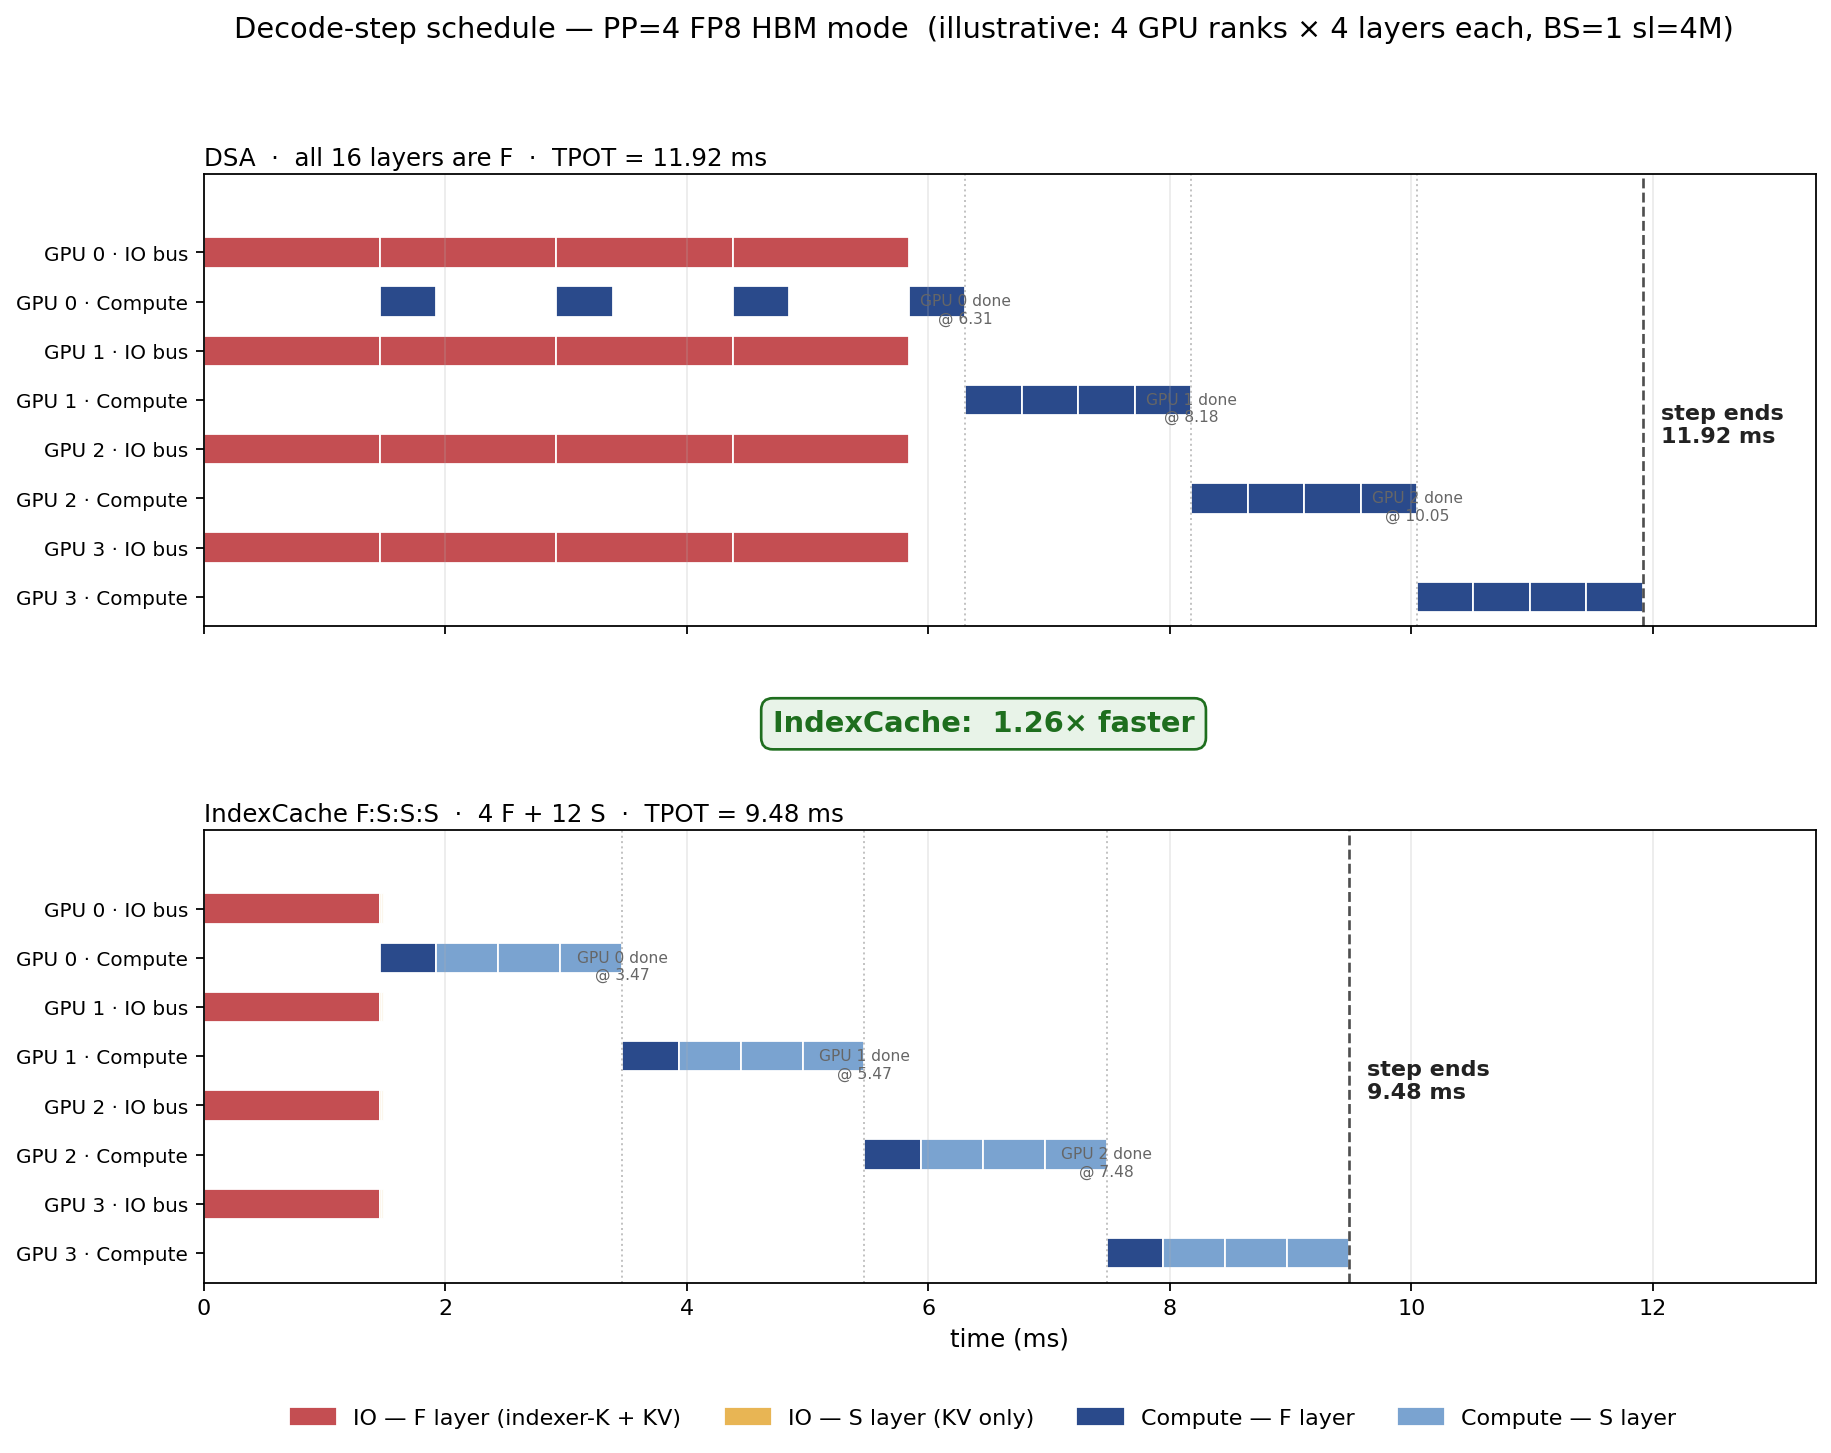
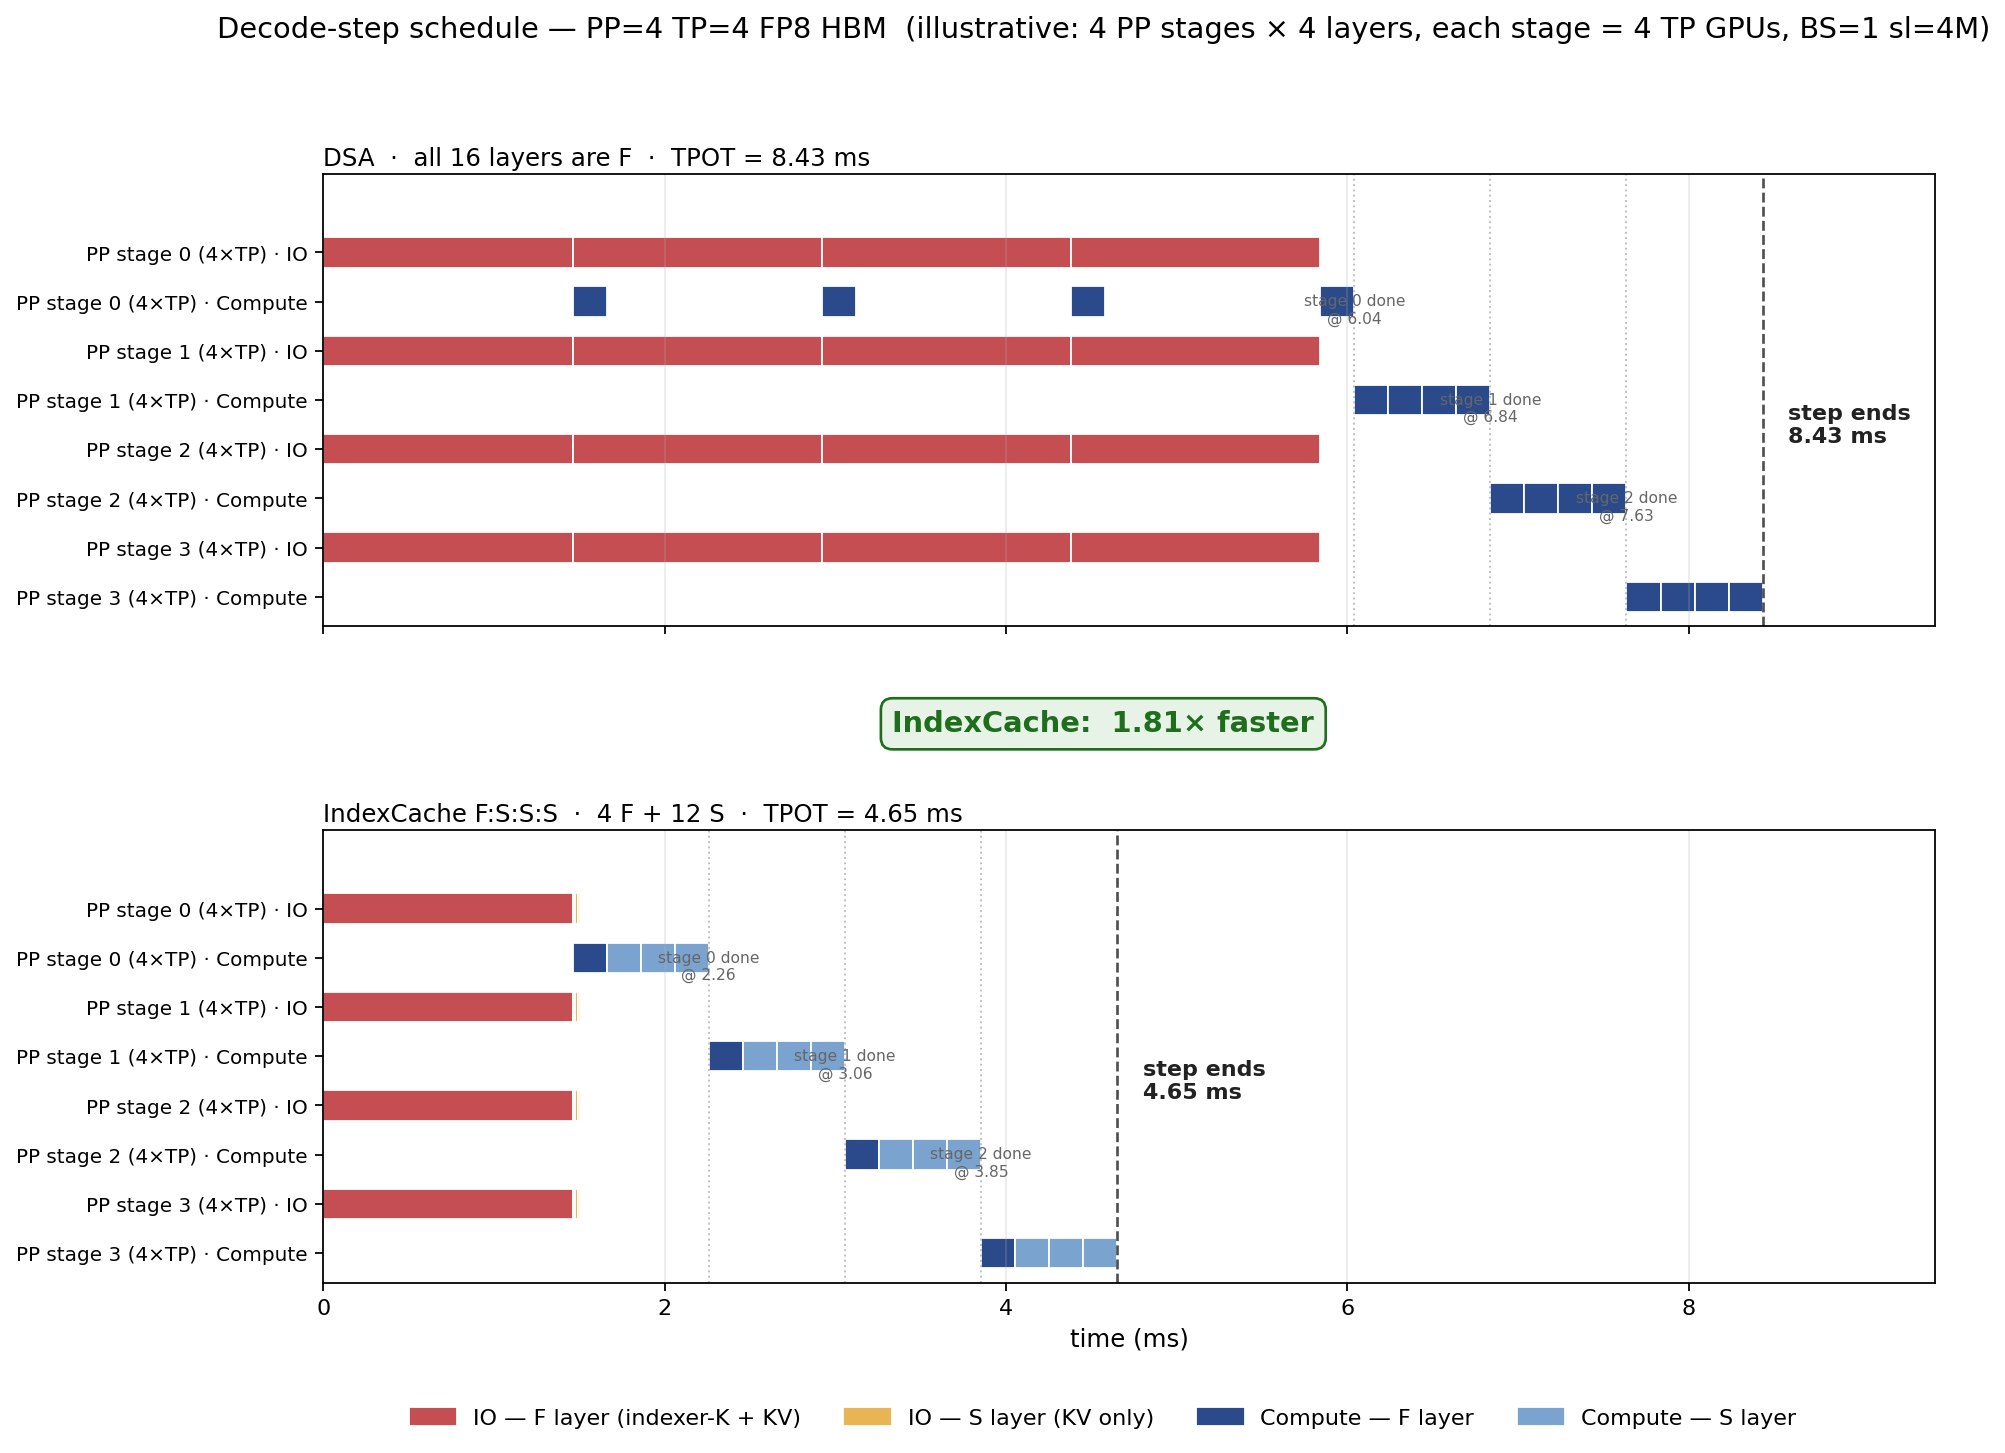
Fix Gantt figures: use TP-sharded compute, label PP stages correctly
Both pipeline timeline figures now use total_compute_ms(tp=TP) so
compute bars reflect the actual TP-parallel execution time. Lane
labels updated from "GPU i" to "PP stage i (N×TP)" to make clear
each lane represents a group of TP GPUs working in parallel on the
same layer, not a single GPU.

https://claude.ai/code/session_01Hc6HPkDRmKxauvdumkV5Yi

diff --git a/experiments/generate_slide_figures.py b/experiments/generate_slide_figures.py
@@ -203,20 +203,21 @@ def fig_pipeline_timeline():
     so the bars are visually informative). Cartoon PP=2 with 8 layers
     per stage so the F:S:S:S structure draws cleanly.
     """
+    TP = 2
     f = analytical_layer_F(4 * 1024 * 1024, 1, "hbm", ep=8, fp8=False)
     s = analytical_layer_S(4 * 1024 * 1024, 1, "hbm", ep=8, fp8=False)
     F_io  = f.total_io_ms()
     S_io  = s.total_io_ms()
-    F_cmp = f.total_compute_ms(tp=1)
-    S_cmp = s.total_compute_ms(tp=1)
+    F_cmp = f.total_compute_ms(tp=TP)
+    S_cmp = s.total_compute_ms(tp=TP)
 
     dsa_pattern = ["F"] * 8
     ic_pattern  = ["F", "S", "S", "S", "F", "S", "S", "S"]
 
     def simulate_pp2(pat):
-        """Two stages, each with its own IO bus (independent prefetch).
-        Stage 0 interleaves its own IO and compute. Stage 1 starts
-        compute at max(stage 0 compute end, stage 1 IO end)."""
+        """Two PP stages; each stage has TP GPUs working in parallel.
+        Stage 0 interleaves IO and (TP-sharded) compute. Stage 1 starts
+        compute at max(stage 0 done, stage 1 IO done)."""
         # Stage 0
         cum_io, end_cmp = 0.0, 0.0
         s0_io, s0_cmp = [], []
@@ -262,8 +263,8 @@ def fig_pipeline_timeline():
         f"IndexCache F:S:S:S  ·  4 F + 12 S  ·  total = {ic_total:.2f} ms",
     ]
     max_t = max(dsa_total, ic_total) * 1.10
-    lane_labels = ["GPU 0 · IO bus", "GPU 0 · Compute",
-                   "GPU 1 · IO bus", "GPU 1 · Compute"]
+    lane_labels = ["PP stage 0 (2×TP) · IO", "PP stage 0 (2×TP) · Compute",
+                   "PP stage 1 (2×TP) · IO", "PP stage 1 (2×TP) · Compute"]
     y_pos = [3, 2, 1, 0]
 
     for ax, run, title in zip(axes, [dsa, ic], titles):
@@ -295,7 +296,7 @@ def fig_pipeline_timeline():
 
         # Stage 0 end marker (when stage 1 compute can begin)
         ax.axvline(s0_end, color="#888", linestyle=":", linewidth=1, alpha=0.6)
-        ax.text(s0_end, 3.7, f"GPU 0 done @ {s0_end:.2f} ↓",
+        ax.text(s0_end, 3.7, f"stage 0 done @ {s0_end:.2f} ↓",
                 fontsize=8, color="#555", ha="center", va="bottom")
 
     axes[1].set_xlabel("time (ms)", fontsize=11)
@@ -316,9 +317,9 @@ def fig_pipeline_timeline():
     fig.legend(handles=handles, loc="lower center", ncol=4, fontsize=10,
                frameon=False, bbox_to_anchor=(0.5, -0.005))
 
-    fig.suptitle("Decode-step schedule — HBM mode  "
-                 "(illustrative: 2 GPU ranks × 8 layers each, BS=1 sl=4M FP16)",
-                 fontsize=13, y=0.99)
+    fig.suptitle("Decode-step schedule — PP=2 TP=2 HBM FP16  "
+                 "(illustrative: 2 PP stages × 8 layers, each stage = 2 TP GPUs, BS=1 sl=4M)",
+                 fontsize=12, y=0.99)
 
     plt.tight_layout(rect=(0, 0.05, 1, 0.95))
     path = os.path.join(OUT, "fig_pipeline_timeline.png")
@@ -332,25 +333,28 @@ def fig_pipeline_timeline():
 # ─────────────────────────────────────────────────────────────────────
 
 def fig_pipeline_timeline_pp4_fp8():
-    """HBM-mode pipeline Gantt for PP=4 FP8: DSA vs IndexCache.
+    """HBM-mode pipeline Gantt for PP=4 TP=4 FP8: DSA vs IndexCache.
 
-    4 GPU ranks, each holding 4 layers (illustrative: actual PP=4 has ~15/rank).
+    4 PP stages × 4 layers each (illustrative: actual PP=4 has ~15/stage).
+    Within each PP stage, 4 TP GPUs work in parallel — compute is TP-sharded.
     Real per-layer costs from analytical_layer at BS=1 sl=4M FP8 HBM.
     """
+    TP = 4
     f = analytical_layer_F(4 * 1024 * 1024, 1, "hbm", ep=8, fp8=True)
     s = analytical_layer_S(4 * 1024 * 1024, 1, "hbm", ep=8, fp8=True)
     F_io  = f.total_io_ms()
     S_io  = s.total_io_ms()
-    F_cmp = f.total_compute_ms(tp=1)
-    S_cmp = s.total_compute_ms(tp=1)
+    F_cmp = f.total_compute_ms(tp=TP)
+    S_cmp = s.total_compute_ms(tp=TP)
 
-    # 4 GPUs × 4 layers each = 16 layers total, F:S:S:S repeating
+    # 4 PP stages × 4 layers each = 16 layers total, F:S:S:S repeating
     dsa_pattern = ["F"] * 4
     ic_pattern  = ["F", "S", "S", "S"]
 
     def simulate_pp4(pat):
-        """PP=4: GPU 0 runs producer/consumer; GPUs 1-3 each start compute
-        at max(prev_gpu_done, this_gpu_io_done). All IO buses run from t=0."""
+        """PP=4: stage 0 interleaves IO and (TP-sharded) compute.
+        Stages 1-3 each start compute at max(prev_stage_done, this_stage_io_done).
+        All IO buses prefetch from t=0 on independent HBM buses."""
         # GPU 0: interleaved IO + compute
         cum_io, end_cmp = 0.0, 0.0
         gpu_io = [[]]
@@ -398,10 +402,10 @@ def fig_pipeline_timeline_pp4_fp8():
     cF_cmp = "#2a4a8b"
     cS_cmp = "#7aa3d0"
 
-    n_lanes = 8  # 4 GPUs × (IO + Compute)
+    n_lanes = 8  # 4 PP stages × (IO + Compute); each stage = 4 TP GPUs in parallel
     lane_labels = []
     for i in range(4):
-        lane_labels += [f"GPU {i} · IO bus", f"GPU {i} · Compute"]
+        lane_labels += [f"PP stage {i} (4×TP) · IO", f"PP stage {i} (4×TP) · Compute"]
     # y positions: GPU 0 at top (y=7,6), GPU 1 (y=5,4), etc.
     y_io  = [7, 5, 3, 1]
     y_cmp = [6, 4, 2, 0]
@@ -433,7 +437,7 @@ def fig_pipeline_timeline_pp4_fp8():
                 prev_end = g_cmp[i-1][-1][0] + g_cmp[i-1][-1][1]
                 ax.axvline(prev_end, color="#aaa", linestyle=":", linewidth=0.9, alpha=0.7)
                 ax.text(prev_end, y_io[i] + 0.5,
-                        f"GPU {i-1} done\n@ {prev_end:.2f}",
+                        f"stage {i-1} done\n@ {prev_end:.2f}",
                         fontsize=7, color="#666", ha="center", va="bottom")
 
         ax.set_yticks(y_all)
@@ -466,8 +470,8 @@ def fig_pipeline_timeline_pp4_fp8():
     fig.legend(handles=handles, loc="lower center", ncol=4, fontsize=10,
                frameon=False, bbox_to_anchor=(0.5, -0.005))
 
-    fig.suptitle("Decode-step schedule — PP=4 FP8 HBM mode  "
-                 "(illustrative: 4 GPU ranks × 4 layers each, BS=1 sl=4M)",
+    fig.suptitle("Decode-step schedule — PP=4 TP=4 FP8 HBM  "
+                 "(illustrative: 4 PP stages × 4 layers, each stage = 4 TP GPUs, BS=1 sl=4M)",
                  fontsize=13, y=0.99)
 
     plt.tight_layout(rect=(0, 0.05, 1, 0.95))
